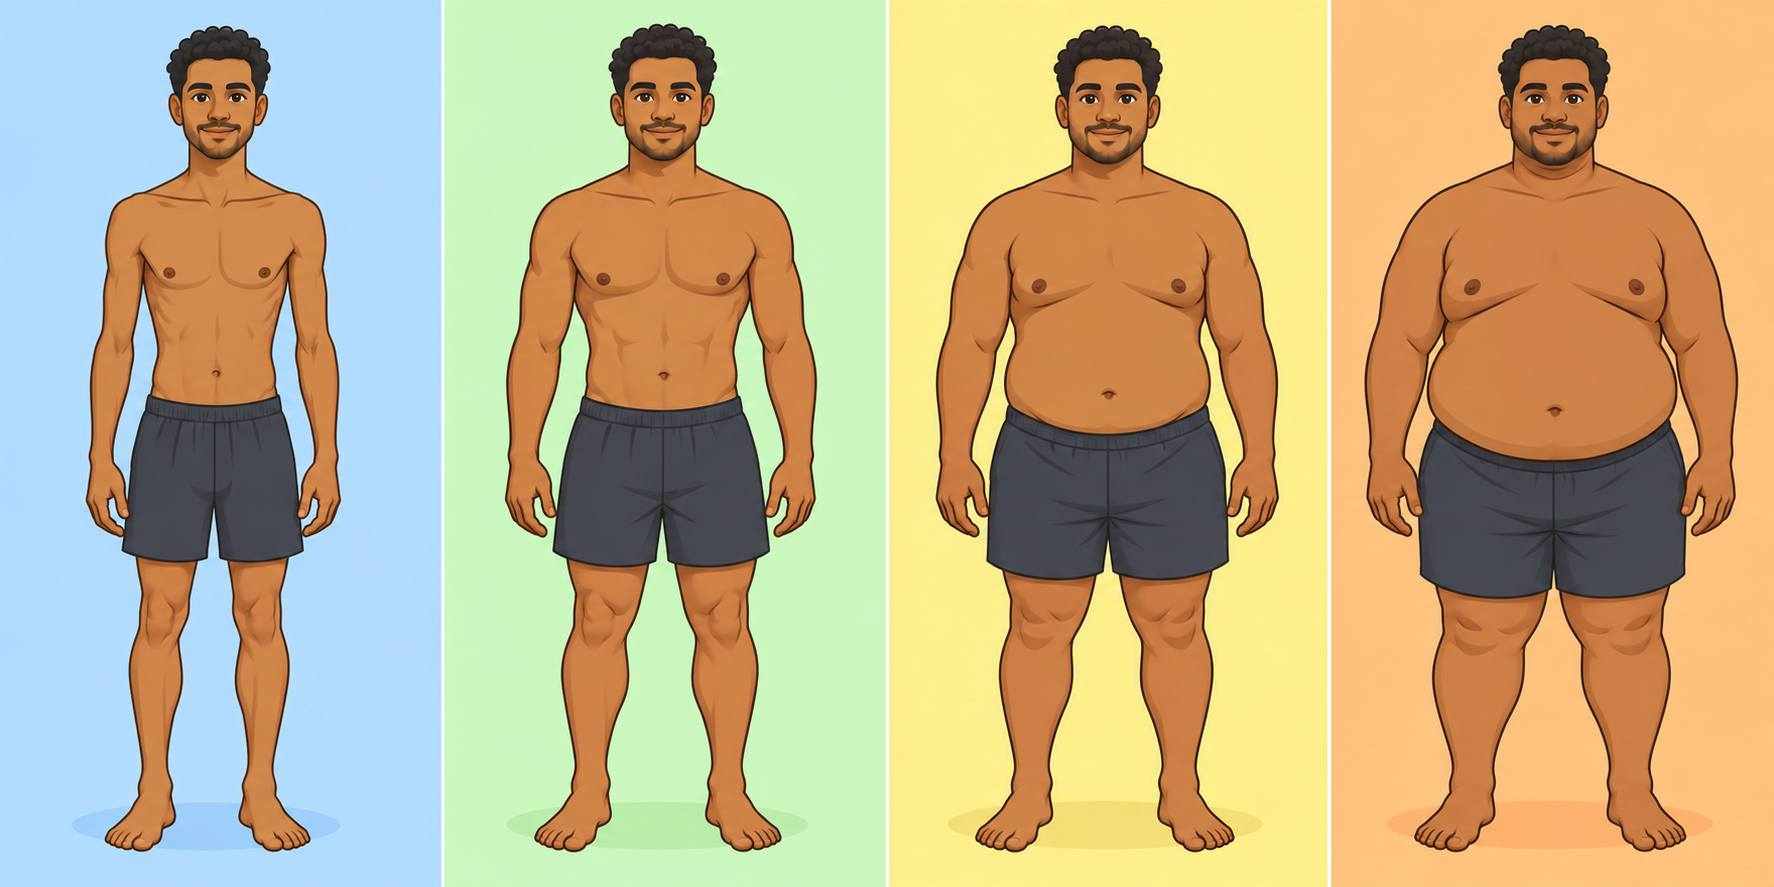
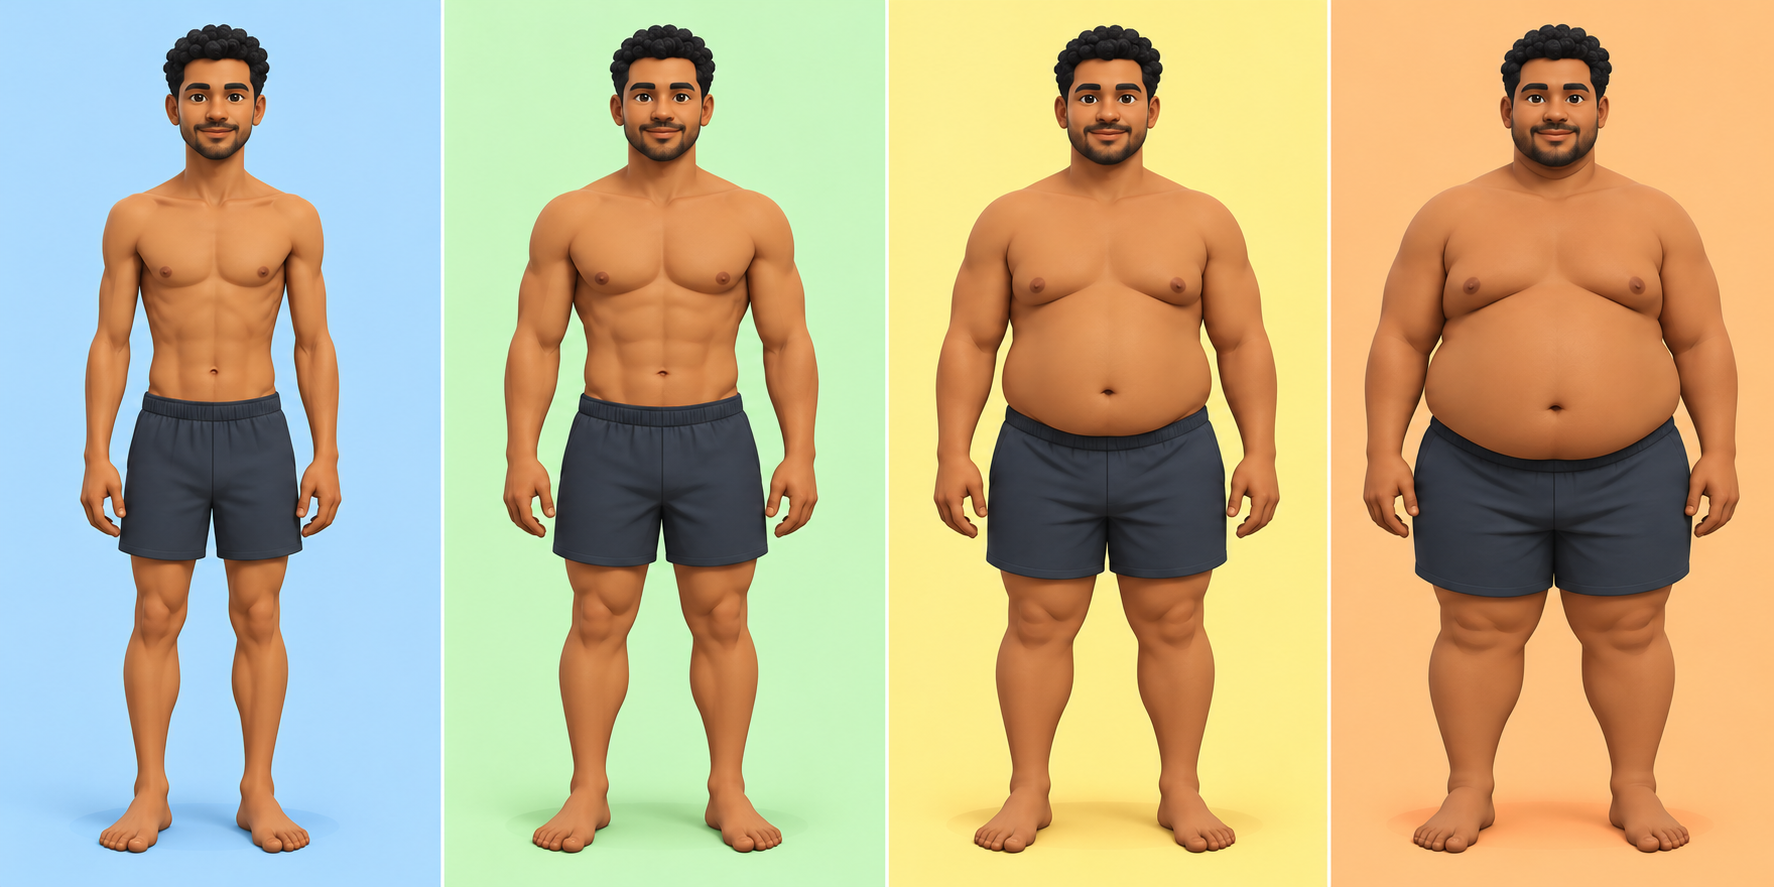
Personalize BMI assessment page

diff --git a/src/App.vue b/src/App.vue
@@ -26,6 +26,35 @@ type ImcSubmission = ImcResult & {
 
 const apiUrl = __IMC_API_URL__
 
+function getPersonalNameFromPath() {
+  const encodedName = window.location.pathname.split('/').filter(Boolean)[0]
+  if (!encodedName) return 'Beta Personal Trainer'
+
+  let name = encodedName
+  try {
+    name = decodeURIComponent(encodedName)
+  } catch {
+    return 'Beta Personal Trainer'
+  }
+
+  const words = name
+    .replace(/[-_]+/g, ' ')
+    .replace(/[^\p{L}\p{M}\s'.’]/gu, '')
+    .trim()
+    .split(/\s+/)
+    .filter(Boolean)
+  if (!words.length) return 'Beta Personal Trainer'
+
+  const lowercaseParticles = new Set(['da', 'das', 'de', 'do', 'dos', 'e'])
+  return words.map((word, index) => {
+    const lower = word.toLocaleLowerCase('pt-BR')
+    if (index > 0 && lowercaseParticles.has(lower)) return lower
+    return `${word.charAt(0).toLocaleUpperCase('pt-BR')}${word.slice(1).toLocaleLowerCase('pt-BR')}`
+  }).join(' ')
+}
+
+const personalName = getPersonalNameFromPath()
+
 const form = reactive({
   weight: '70',
   height: '170',
@@ -147,7 +176,7 @@ function calculateImc() {
   evaluating.value = true
   evaluationProgress.value = 0
   const startedAt = performance.now()
-  const duration = 3000
+  const duration = 2000
 
   function animate(now: number) {
     evaluationProgress.value = Math.min(100, Math.round(((now - startedAt) / duration) * 100))
@@ -228,7 +257,7 @@ async function sendResult() {
   <main class="page-shell">
     <section class="calculator" aria-labelledby="page-title">
       <header class="hero">
-        <div class="brand" aria-label="Beta Personal Trainer"><img class="fox-mark" :src="foxMark" alt=""><span>BETA PERSONAL TRAINER</span></div>
+        <div class="brand" :aria-label="personalName"><img class="fox-mark" :src="foxMark" alt=""><span>{{ personalName }}</span></div>
         <h1 id="page-title">
           <svg class="scale-icon" viewBox="0 0 40 40" aria-hidden="true">
             <rect x="6" y="4" width="28" height="32" rx="6" />
@@ -237,7 +266,7 @@ async function sendResult() {
           </svg>
           <span>{{ result ? 'Resultado da avaliação' : 'Avalie seu peso' }}</span>
         </h1>
-        <p class="intro">{{ result ? 'Veja o resultado da sua avaliação.' : 'Quanto falta pra você chegar ao peso ideal?' }}</p>
+        <p v-if="!result" class="intro">Quanto falta pra você chegar ao peso ideal?</p>
       </header>
 
       <form v-if="!result" class="form" @submit.prevent="calculateImc">
@@ -269,37 +298,9 @@ async function sendResult() {
       </form>
 
       <section v-else id="result" class="result-card" aria-live="polite">
-        <div class="weight-goal">
-          <p class="eyebrow">QUANTO PESO PERDER</p>
-          <strong v-if="weightToLose !== null">{{ weightToLose.toLocaleString('pt-BR', { minimumFractionDigits: 1 }) }} kg</strong>
-          <strong v-else>—</strong>
-          <p>{{ weightGoalMessage }}</p>
-        </div>
-
-        <div class="bmi-scale-wrap" role="img" :aria-label="`Escala de IMC de magreza até obesidade grau I: ${result.imc.toLocaleString('pt-BR', { minimumFractionDigits: 1 })}, classificação ${classification}`">
-          <div class="scale-marker" :style="{ left: scalePosition }"><strong>{{ result.imc.toLocaleString('pt-BR', { minimumFractionDigits: 1 }) }}</strong><span aria-hidden="true">▼</span></div>
-          <div class="bmi-scale-bar"><span v-for="segment in bmiScale" :key="segment.label" :style="{ backgroundColor: segment.color, flexGrow: segment.to - segment.from }"></span></div>
-          <div class="scale-labels"><span v-for="segment in bmiScale" :key="segment.label"><b>{{ segment.range }}</b>{{ segment.label }}</span></div>
-        </div>
-
-        <div class="silhouette-section" :class="{ 'male-silhouettes': form.sex === 'masculino' }" :aria-label="`Escala ilustrativa de silhuetas ${silhouetteGenderLabel.toLowerCase()} por classificação de IMC`">
-          <p class="eyebrow">SILHUETAS {{ silhouetteGenderLabel }} · REFERÊNCIA ADULTA</p>
-          <div class="silhouette-list">
-            <div v-for="(person, index) in bmiSilhouettes" :key="person.label" class="silhouette-item" :class="{ active: activeSilhouette === index }" :aria-current="activeSilhouette === index ? 'true' : undefined">
-              <div class="silhouette-image-window" :style="{ backgroundImage: `url(${silhouetteImage})`, backgroundPositionX: silhouettePositions[index] }" role="img" :aria-label="`Silhueta ${person.label}`"></div>
-              <b>{{ person.label }}</b><span>{{ person.range }}</span>
-            </div>
-          </div>
-          <p class="silhouette-note">Referência visual ilustrativa para mulheres adultas; não substitui avaliação profissional.</p>
-          <p v-if="result.imc >= 35" class="silhouette-note severe-obesity-note">O gráfico e a escala visual terminam em obesidade grau I; seu IMC está acima da faixa exibida.</p>
-        </div>
-
-        <div class="result-heading">
-          <div><p class="eyebrow">SEU RESULTADO</p><h2>{{ classification }}</h2></div>
-        </div>
         <label class="contact-opt-in" for="contact-consent">
           <input id="contact-consent" v-model="form.contactConsent" name="contactConsent" type="checkbox" aria-controls="contact-fields" :aria-expanded="form.contactConsent" @change="handleContactConsentChange">
-          <span>Quero receber contato do personal</span>
+          <span>Receber ajuda de um personal</span>
         </label>
 
         <form v-if="form.contactConsent" id="contact-fields" class="form contact-fields" @submit.prevent="sendResult">
@@ -322,7 +323,35 @@ async function sendResult() {
           <button class="primary-button field-wide" type="submit" :disabled="sending">{{ sending ? 'Enviando…' : 'Enviar dados para o personal' }} <span aria-hidden="true">→</span></button>
         </form>
 
-        <button class="back-button" type="button" @click="editMeasurement">Alterar peso e altura</button>
+        <div class="weight-goal">
+          <p class="eyebrow">QUANTO PESO PERDER</p>
+          <strong v-if="weightToLose !== null">{{ weightToLose.toLocaleString('pt-BR', { minimumFractionDigits: 1 }) }} kg</strong>
+          <strong v-else>—</strong>
+          <p>{{ weightGoalMessage }}</p>
+        </div>
+
+        <div class="bmi-scale-wrap" role="img" :aria-label="`Escala de IMC de magreza até obesidade grau I: ${result.imc.toLocaleString('pt-BR', { minimumFractionDigits: 1 })}, classificação ${classification}`">
+          <div class="scale-marker" :style="{ left: scalePosition }"><strong>{{ result.imc.toLocaleString('pt-BR', { minimumFractionDigits: 1 }) }}</strong><span aria-hidden="true">▼</span></div>
+          <div class="bmi-scale-bar"><span v-for="segment in bmiScale" :key="segment.label" :style="{ backgroundColor: segment.color, flexGrow: segment.to - segment.from }"></span></div>
+          <div class="scale-labels"><span v-for="segment in bmiScale" :key="segment.label"><b>{{ segment.range }}</b>{{ segment.label }}</span></div>
+        </div>
+
+        <div class="silhouette-section" :class="{ 'male-silhouettes': form.sex === 'masculino' }" :aria-label="`Escala ilustrativa de silhuetas ${silhouetteGenderLabel.toLowerCase()} por classificação de IMC`">
+          <p class="eyebrow">SILHUETAS {{ silhouetteGenderLabel }} · REFERÊNCIA ADULTA</p>
+          <div class="silhouette-list">
+            <div v-for="(person, index) in bmiSilhouettes" :key="person.label" class="silhouette-item" :class="{ active: activeSilhouette === index }" :aria-current="activeSilhouette === index ? 'true' : undefined">
+              <div class="silhouette-image-window" :style="{ backgroundImage: `url(${silhouetteImage})`, backgroundPositionX: silhouettePositions[index] }" role="img" :aria-label="`Silhueta ${person.label}`"></div>
+              <b>{{ person.label }}</b><span>{{ person.range }}</span>
+            </div>
+          </div>
+          <p class="silhouette-note">Referência visual ilustrativa para adultos; não substitui avaliação profissional.</p>
+          <p v-if="result.imc >= 35" class="silhouette-note severe-obesity-note">O gráfico e a escala visual terminam em obesidade grau I; seu IMC está acima da faixa exibida.</p>
+        </div>
+
+        <div class="result-heading">
+          <div><p class="eyebrow">SEU RESULTADO</p><h2>{{ classification }}</h2></div>
+        </div>
+        <button class="back-button" type="button" @click="editMeasurement">Nova avaliação</button>
       </section>
 
       <div v-if="evaluating" class="evaluation-overlay" role="status" aria-live="polite" :aria-label="`Avaliando: ${evaluationProgress}%`">

diff --git a/src/assets/main.css b/src/assets/main.css
@@ -46,8 +46,8 @@ h1 { display: flex; align-items: center; justify-content: center; gap: 9px; font
 .form { display: grid; grid-template-columns: 1fr 1fr; gap: 17px 14px; }
 .gender-tabs { display: grid; grid-template-columns: repeat(2, minmax(0, 1fr)); gap: 4px; padding: 4px; border: 1px solid var(--line); border-radius: 12px; background: #f2f7fc; }
 .gender-tab { min-height: 42px; border: 0; border-radius: 9px; color: #60738c; background: transparent; font-size: 15px; font-weight: 700; }
-.gender-tab.active { color: #fff; background: #258346; box-shadow: 0 2px 7px rgba(31, 115, 61, .2); }
-.gender-tab:focus-visible { outline: 3px solid #aad7b4; outline-offset: 2px; }
+.gender-tab.active { color: #fff; background: var(--blue); box-shadow: 0 2px 7px rgba(37, 99, 235, .2); }
+.gender-tab:focus-visible { outline: 3px solid #a8c7ff; outline-offset: 2px; }
 .measurement-fields { display: grid; grid-template-columns: repeat(2, minmax(0, 1fr)); gap: 17px 14px; }
 .field { display: flex; min-width: 0; flex-direction: column; gap: 8px; color: #455b77; font-size: 14px; font-weight: 700; }
 .field-label { color: #455b77; font-size: 14px; font-weight: 700; }
@@ -82,8 +82,8 @@ h1 { display: flex; align-items: center; justify-content: center; gap: 9px; font
 .contact-opt-in { display: flex; min-height: 54px; align-items: center; gap: 11px; padding: 12px 14px; border: 1px solid #dbeafe; border-radius: 10px; color: #345273; background: #f7faff; font-size: 15px; font-weight: 700; cursor: pointer; }
 .contact-opt-in input { flex: 0 0 auto; width: 20px; height: 20px; margin: 0; accent-color: var(--blue); }
 .contact-fields { display: grid; grid-column: 1 / -1; grid-template-columns: 1fr 1fr; gap: 17px 14px; }
-.back-button { display: block; width: 100%; min-height: 44px; margin-top: 12px; border: 0; border-radius: 10px; color: #35577f; background: transparent; font-size: 14px; font-weight: 700; }
-.back-button:hover { background: #eaf2ff; }
+.back-button { display: block; width: 100%; min-height: 44px; margin-top: 12px; border: 1px solid #c9dcf7; border-radius: 10px; color: var(--blue-dark); background: #fff; font-size: 14px; font-weight: 700; }
+.back-button:hover { border-color: #91b6f1; background: #eaf2ff; }
 .back-button:focus-visible { outline: 3px solid #a8c7ff; outline-offset: 2px; }
 .result-card { margin-top: 23px; padding: 22px; border: 1px solid #dbeafe; border-radius: 15px; background: #f7faff; }
 .evaluation-overlay { position: fixed; z-index: 10; inset: 0; display: grid; place-items: center; background: rgba(22, 52, 84, .42); backdrop-filter: blur(3px); animation: evaluation-fade-in .18s ease-out both; }
